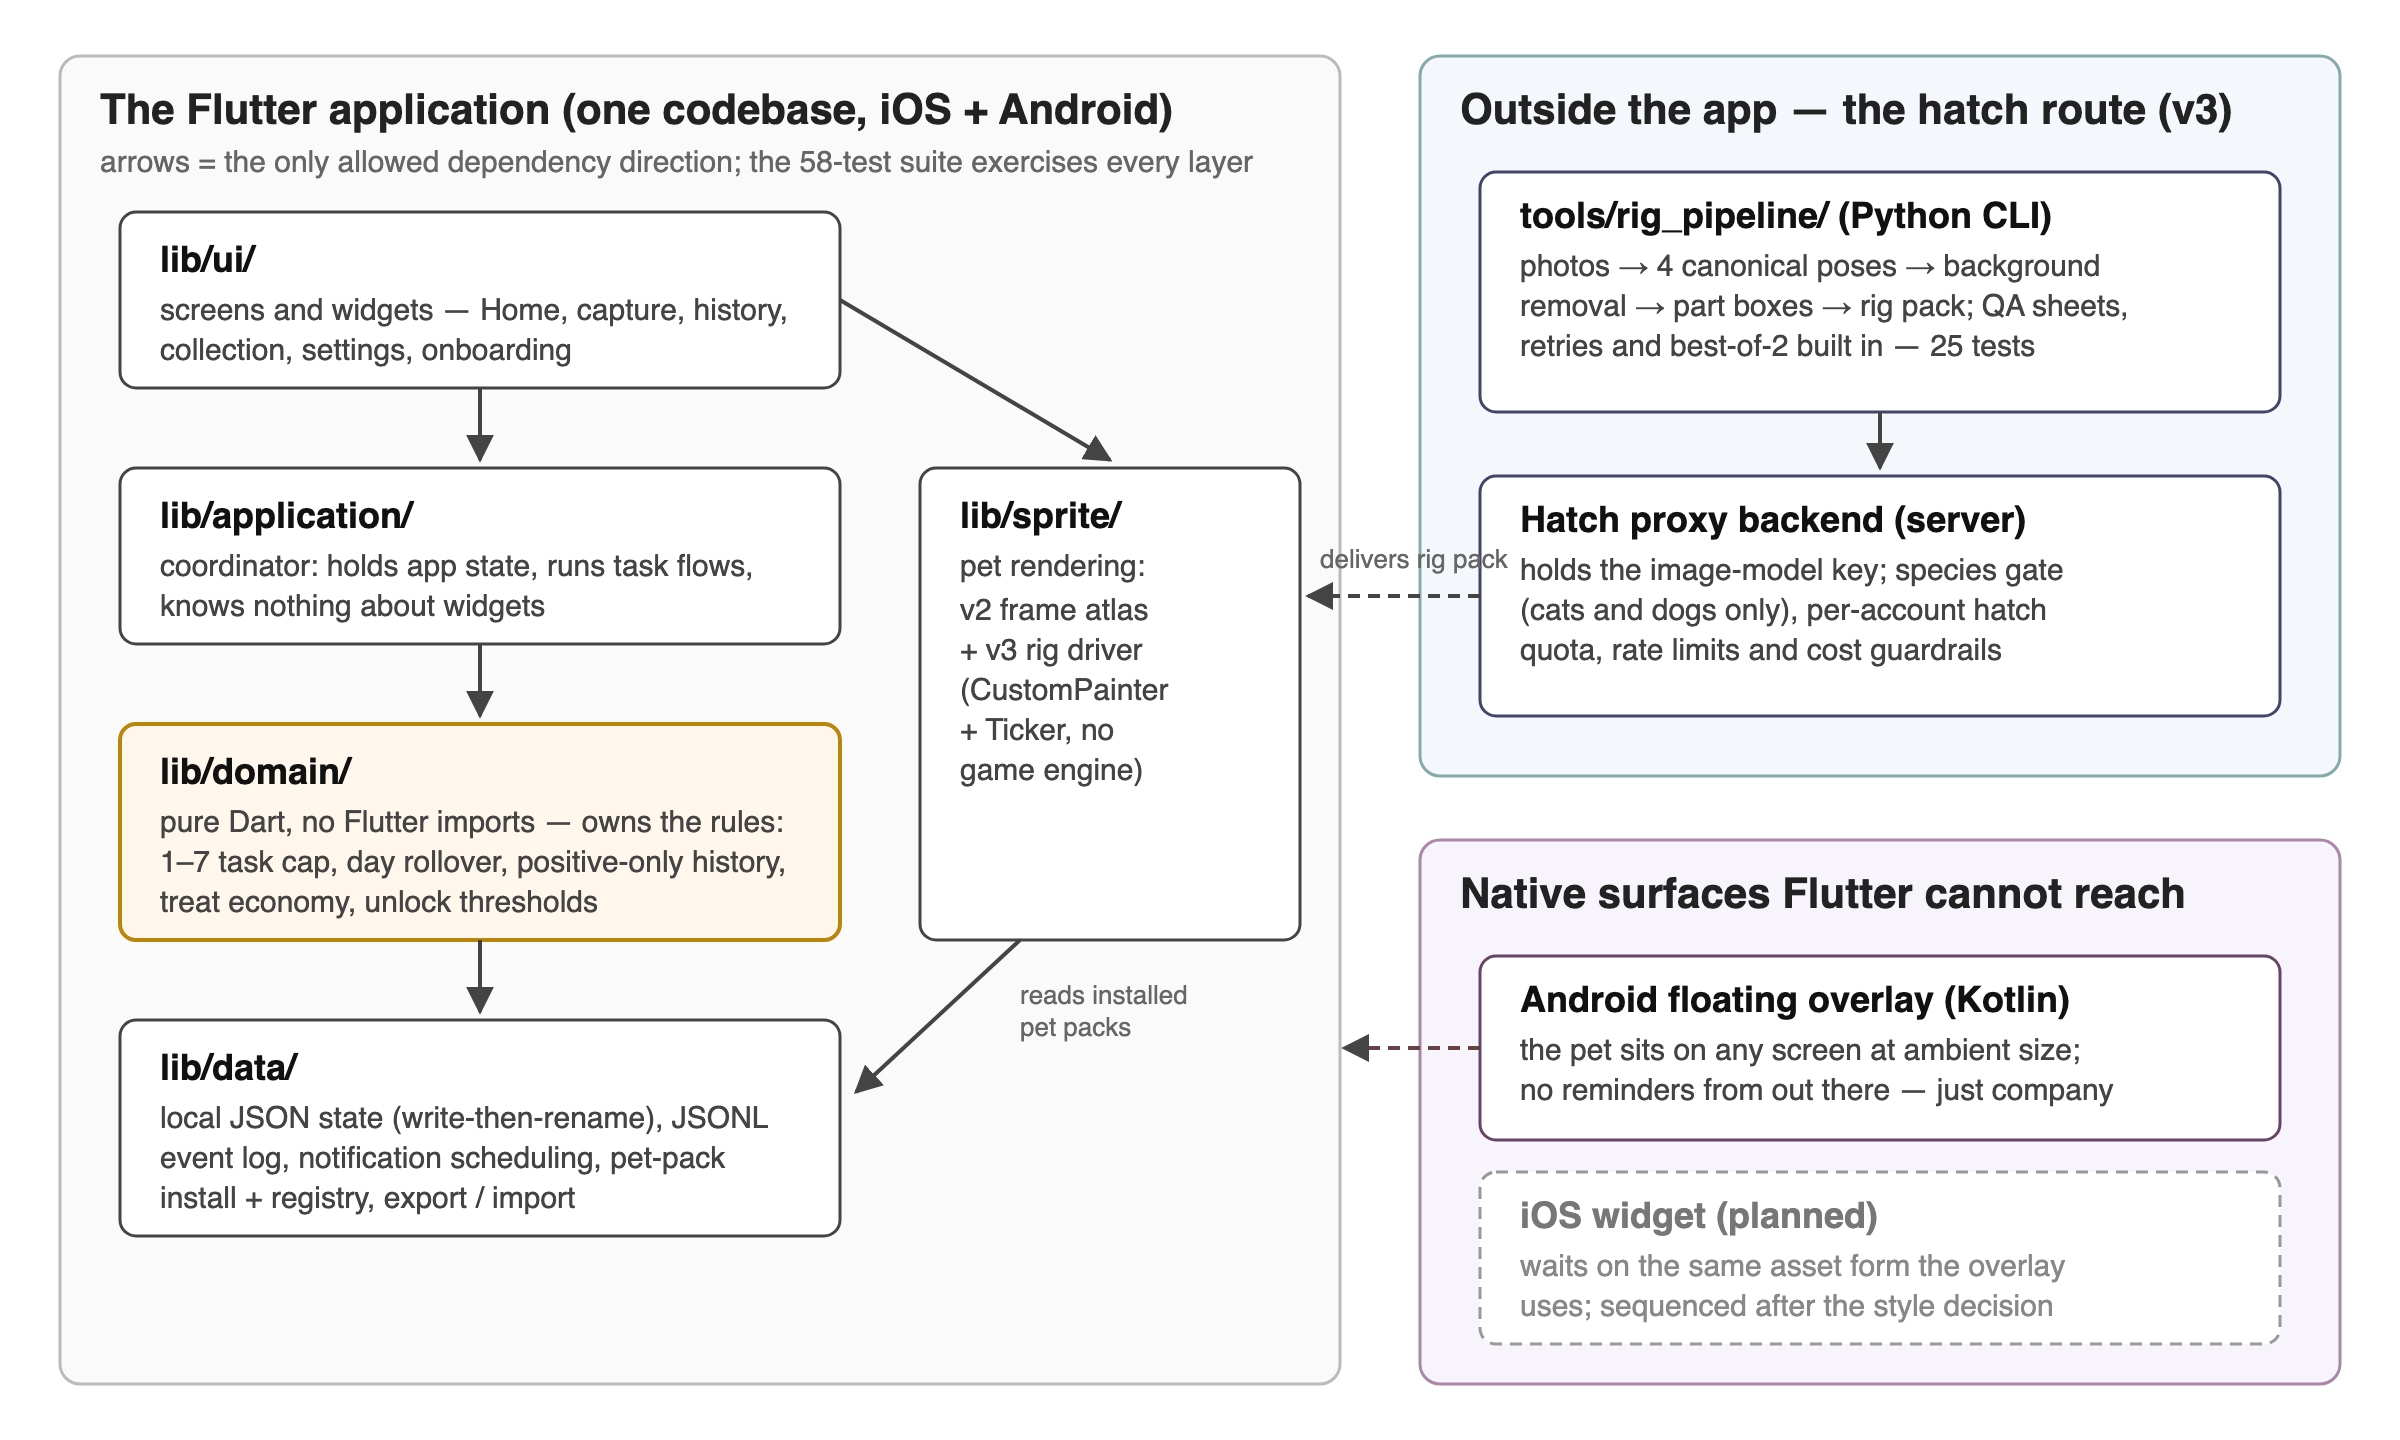
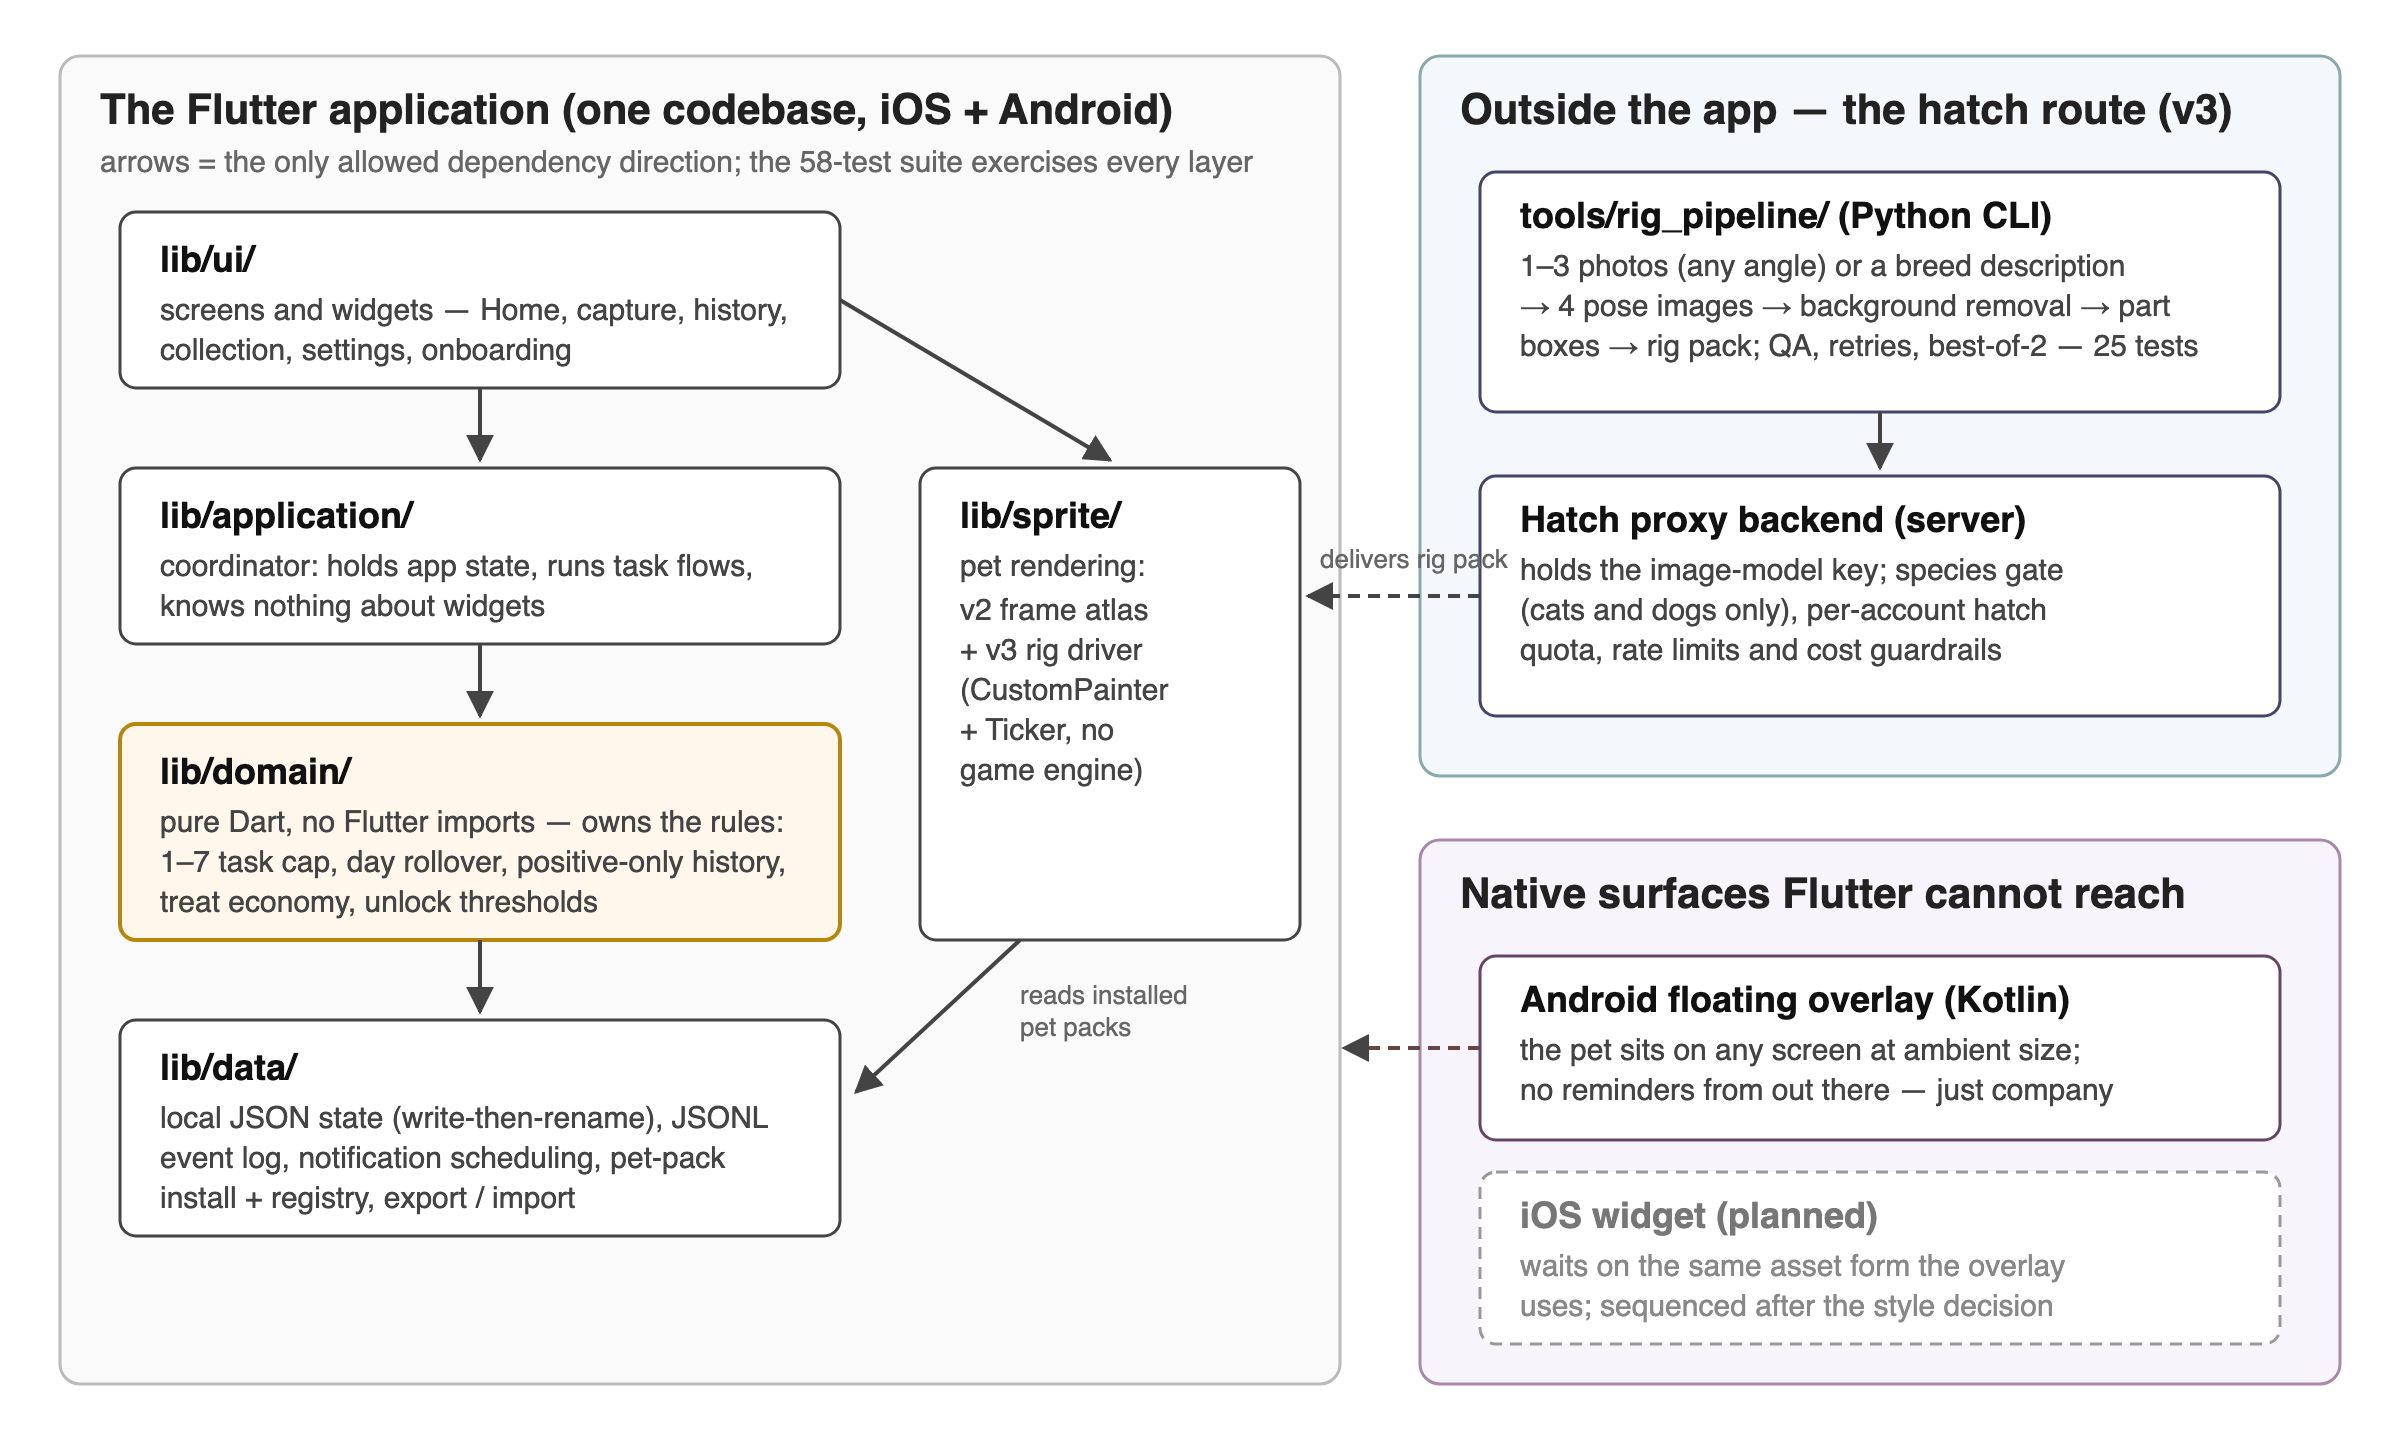
docs: report reflects preset adoption roster and own-pet unlock; disambiguate generated poses from photo angles

Changed region(s): [[0.625, 0.1562, 0.9062, 0.25]]

diff --git a/thesis/01-midterm-report-draft.md b/thesis/01-midterm-report-draft.md
@@ -10,9 +10,10 @@ Pawside is a mobile to-do application for adults with ADHD, built for iOS and
 Android from one Flutter codebase. Its starting idea is simple: for this
 population, gentle reminders rarely get a task started, but external anchors —
 a child, a pet, another person who depends on you — often do. So instead of
-sending reminders, Pawside gives the user a virtual pet generated from
-photographs of their own animal, and frames a small daily task list as things
-the user and the pet do together. Safety rules — no punishment, no streaks, no
+sending reminders, Pawside gives the user a virtual pet — adopted from a
+roster of nine preset cats and dogs, or, as a one-off unlock, generated from
+photographs of the user's own animal — and frames a small daily task list as
+things the user and the pet do together. Safety rules — no punishment, no streaks, no
 failure states — are built into the data model rather than left to good
 intentions.
 
@@ -67,8 +68,10 @@ Build and evaluate a to-do application whose engagement mechanism is an
 external anchor rather than a reminder, without importing the guilt that has
 caused similar applications to be abandoned. Objectives: (i) a dual-platform
 core loop that works entirely offline, with no account and no server; (ii) a
-pet generated from the user's *own* animal, on the hypothesis that attachment
-to a real, recognisable companion is stronger than attachment to a generic
+pet the user cares about — a preset roster of cats and dogs so the app is
+complete without owning an animal, plus, as the differentiating unlock, a pet
+generated from the user's *own* animal, on the hypothesis that attachment to
+a real, recognisable companion is stronger than attachment to a generic
 avatar; (iii) safety red lines — no punishment, no streaks, no failure
 states — enforced by the structure of the code, not by discipline; (iv) an
 evaluation against a retention criterion, where the criterion itself is
@@ -447,10 +450,21 @@ in model fees, which makes hatching in-app viable: photos go from the app to
 a small proxy backend that holds the image-model key, enforces a species gate
 (cats and dogs only in v1), a per-account hatch quota, rate limits and cost
 ceilings — and returns the finished pack straight to the device. No account
-is created and no photos are retained server-side. Existing v2 pets keep
-working: the renderer routes by pack format, and the two formats run side by
-side. The "failed" reaction class present in early animation drafts is
-permanently absent, by red line.
+is created and no photos are retained server-side. The photos themselves can
+be taken from any angle — the in-app guidance says only that different angles
+improve generation quality — and the four poses are generated *outputs*, not
+required inputs. Existing v2 pets keep working: the renderer routes by pack
+format, and the two formats run side by side. The "failed" reaction class
+present in early animation drafts is permanently absent, by red line.
+
+The same pipeline also produced the preset roster: nine cats and dogs
+generated from breed descriptions alone, no photographs involved, with
+several candidates rendered per pet and the best face hand-picked. The
+presets are free, so the app is complete for someone who owns no animal at
+all; hatching your *own* pet is a one-off paid unlock that includes three
+hatch attempts, and photos of anything other than a cat or dog are gently
+declined, with the requested species recorded as a wish for a future
+template.
 
 **Figure 4 — The two hatch routes.** v2 generated every frame; v3 generates
 four poses and lets a skeleton do the moving.
@@ -470,10 +484,12 @@ judges from the centre of the detected head box.
 
 The original onboarding introduced features. The rebuilt flow introduces the
 pet first, on the reasoning that Section 1.3.2 supports: the app is opened to see
-the pet, so the first minute should establish that bond. The user meets a
-grid of adoptable pets ("Who's coming home?"), picks one, and names it — with
+the pet, so the first minute should establish that bond. The user meets an
+adoption grid of the nine preset pets ("Who's coming home?"), rendered from
+the live pet registry rather than hardcoded, picks one, and names it — with
 a dice button that rolls a name from a preset pool, so the single typing
-moment has a zero-effort escape. They then pick up to three "little things"
+moment has a zero-effort escape. A quiet line beneath the grid — "Your real
+pet can live here too" — points at the own-pet unlock without selling it. They then pick up to three "little things"
 from tappable chips (get out of bed, drink some water, take my meds…), with
 typing needed only for a custom entry. A mid-point celebration awards the
 first treat *before* any real task is done, so the reward loop is
@@ -739,12 +755,11 @@ leader — which at least has accounts to restore from. The export mechanism
 exists; making it a visible backup with an honest explanation is a small
 change against a disproportionate risk.
 
-**Finish the v3 rollout.** The pipeline, proxy and renderer exist (Section 3.5);
-what remains is production and productisation: a roster of preset pets
-generated through the same pipeline so the adoption grid offers real
-variety, the one-off unlock flow for hatching a user's own pet, and the iOS
-widget as the second ambient surface — which can now reuse the pixel asset
-form the Android overlay draws.
+**Finish the v3 rollout.** The pipeline, proxy, renderer, preset roster and
+unlock flow all exist (Section 3.5); what remains is pricing the unlock (it
+currently ships with a placeholder price), routing the adopted pet onto the
+Android overlay, and the iOS widget as the second ambient surface — which can
+now reuse the pixel asset form the overlay draws.
 
 **Evaluation.** Ethics enquiry, recruitment, the fourteen-day run with a
 day-60 follow-up, and analysis. The outstanding intellectual work is deciding
